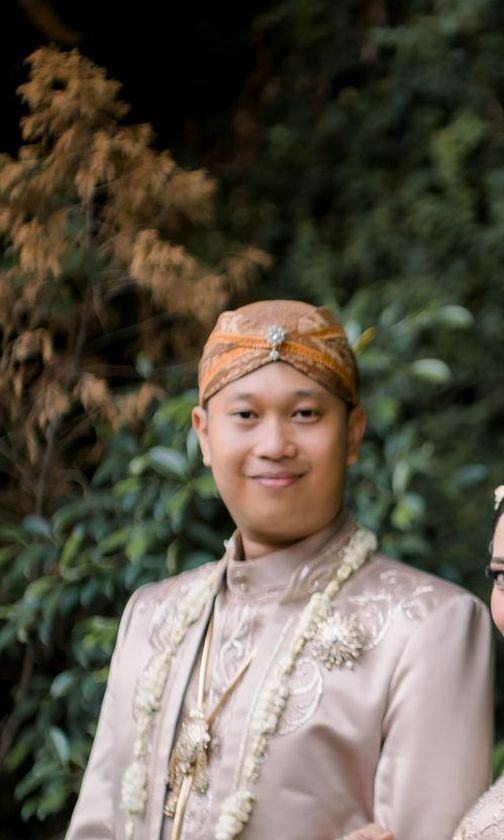
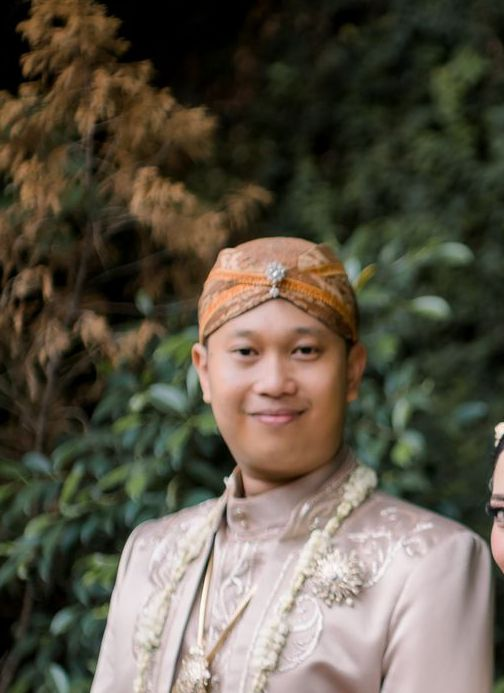
Bingkai foto modern: tanpa border, bayangan halus; opsi garis tipis 1px

diff --git a/site/engine/kerangka.css b/site/engine/kerangka.css
@@ -46,14 +46,15 @@
 .k2 .ayat { padding: 30px 22px; }
 
 /* ---------- Bingkai foto (gaya foto per undangan) ---------- */
-.k2 .bingkai { position: relative; margin: 20px auto; width: min(76%, 300px); aspect-ratio: 3 / 4; overflow: hidden; }
+/* Modern: tanpa border, hanya bayangan halus. Opsi garis tipis 1px: D.gayaFoto.garis = "tipis" (body.garis-tipis) */
+.k2 .bingkai { position: relative; margin: 20px auto; width: min(76%, 300px); aspect-ratio: 3 / 4; overflow: hidden; box-shadow: 0 24px 44px -28px rgba(30, 15, 10, 0.55); }
 .k2 .bingkai img { width: 100%; height: 100%; object-fit: cover; display: block; }
-.k2 .bingkai-lengkung { border-radius: 999px 999px 14px 14px; box-shadow: 0 0 0 6px var(--bg), 0 0 0 7px var(--emas-terang); overflow: hidden; }
-.k2 .bingkai-oval { border-radius: 50%; box-shadow: 0 0 0 6px var(--bg), 0 0 0 7px var(--emas-terang); }
-.k2 .bingkai-lingkaran { aspect-ratio: 1; border-radius: 50%; box-shadow: 0 0 0 5px var(--bg), 0 0 0 6px var(--emas-terang); }
+.k2 .bingkai-lengkung { border-radius: 999px 999px 14px 14px; }
+.k2 .bingkai-oval { border-radius: 50%; }
+.k2 .bingkai-lingkaran { aspect-ratio: 1; border-radius: 50%; }
 .k2 .bingkai-persegi { aspect-ratio: 4 / 3; width: 100%; border-radius: 18px; }
 .k2 .bingkai-penuh { width: calc(100% + 52px); margin-left: -26px; aspect-ratio: 4 / 5; -webkit-mask-image: linear-gradient(#000 70%, transparent); mask-image: linear-gradient(#000 70%, transparent); }
-.k2 .gelap .bingkai-lengkung, .k2 .gelap .bingkai-oval, .k2 .gelap .bingkai-lingkaran { box-shadow: 0 0 0 6px var(--gelap), 0 0 0 7px var(--emas-terang); }
+.k2.garis-tipis .bingkai { box-shadow: 0 0 0 1px color-mix(in srgb, var(--emas-terang) 70%, transparent), 0 24px 44px -28px rgba(30, 15, 10, 0.55); }
 /* Cara foto muncul */
 .k2 .muncul-zoom img { transform: scale(1.16); transition: transform 2.2s cubic-bezier(0.2, 0.7, 0.2, 1); }
 .k2 .in .muncul-zoom img, .k2 .in.muncul-zoom img, .k2.terbuka .sec-hero .muncul-zoom img { transform: none; }
@@ -75,7 +76,7 @@
 .k2 .kisah-kartu li { padding: 0 0 22px; background: var(--surface); color: var(--ink); border-radius: 24px; overflow: hidden; text-align: center; }
 .k2 .kisah-kartu li::before { display: none; }
 .k2 .kisah-kartu .bingkai-persegi { margin: 0 0 16px; width: 100%; border-radius: 0; box-shadow: none; }
-.k2 .kisah-kartu .bingkai-lingkaran, .k2 .kisah-kartu .bingkai-oval, .k2 .kisah-kartu .bingkai-lengkung { width: 150px; margin: 0 auto 16px; box-shadow: 0 0 0 5px var(--surface), 0 0 0 6px var(--emas-terang); }
+.k2 .kisah-kartu .bingkai-lingkaran, .k2 .kisah-kartu .bingkai-oval, .k2 .kisah-kartu .bingkai-lengkung { width: 150px; margin: 0 auto 16px; }
 .k2 .kisah-kartu li:has(.bingkai-lingkaran, .bingkai-oval, .bingkai-lengkung) { padding-top: 26px; }
 .k2 .kisah-kartu :is(.tl-date, .tl-title, .tl-text) { padding: 0 20px; }
 .k2 .kisah-kartu .tl-title { font-family: var(--font-display); font-weight: 500; font-size: 26px; color: var(--primary); }

diff --git a/site/engine/undangan.js b/site/engine/undangan.js
@@ -49,6 +49,7 @@
   var K2 = !!D.kerangka;
   if (K2) document.body.classList.add("k2");
   var GF = D.gayaFoto || {};
+  if (K2 && GF.garis === "tipis") document.body.classList.add("garis-tipis");
   function bingkaiFoto(src, bentuk, muncul, alt, malas) {
     var f = el("figure", "bingkai bingkai-" + (bentuk || "lengkung") + (muncul ? " muncul-" + muncul : ""));
     var img = el("img");

diff --git a/docs/kerangka-undangan.md b/docs/kerangka-undangan.md
@@ -37,7 +37,7 @@ Urutan tetap. Bagian opsional boleh dihilangkan, tetapi urutan sisanya tidak diu
 
 | Komponen | Aturan |
 |---|---|
-| **Bingkai foto** | Bentuk mengikuti gaya foto terpilih (lihat bagian 5). Garis tepi tipis dengan warna aksen. |
+| **Bingkai foto** | Bentuk mengikuti gaya foto terpilih (lihat bagian 5). Gaya modern: **tanpa border**, cukup bayangan halus. Opsi garis tipis 1 px yang menempel di tepi foto (`gayaFoto.garis: "tipis"`). Dilarang cincin ganda atau border tebal. |
 | **Kartu** | Latar warna terang dengan sudut membulat (16–28 px) dan bayangan halus. Dipakai untuk ayat, acara, kado, dan formulir. |
 | **Sambungan antarbagian** | Bagian gelap dan terang bergantian, dipisah kurva atau lengkung, tidak dipotong garis lurus. |
 | **Ornamen tepi** | Juntaian atau rumbai khas adat di sisi kiri dan kanan layar, terutama di bagian gelap. |
